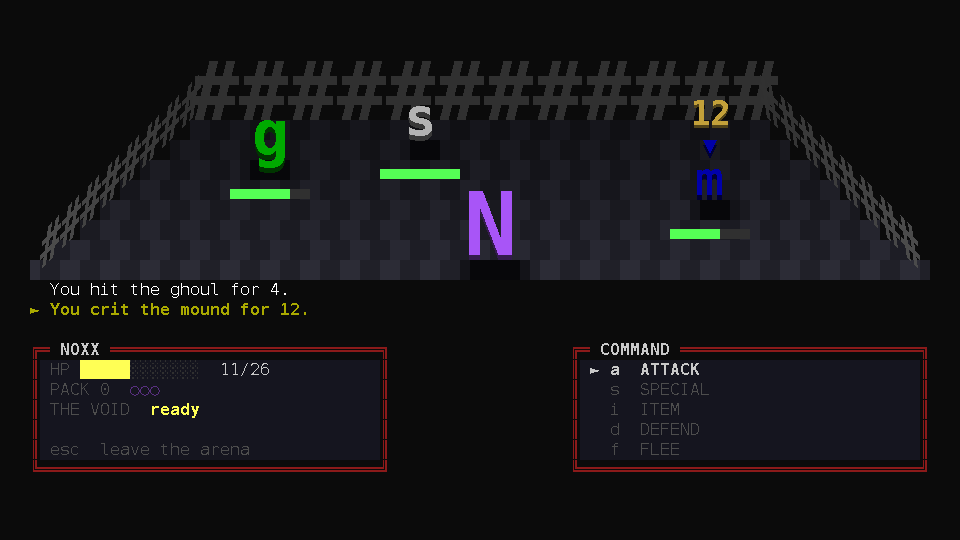
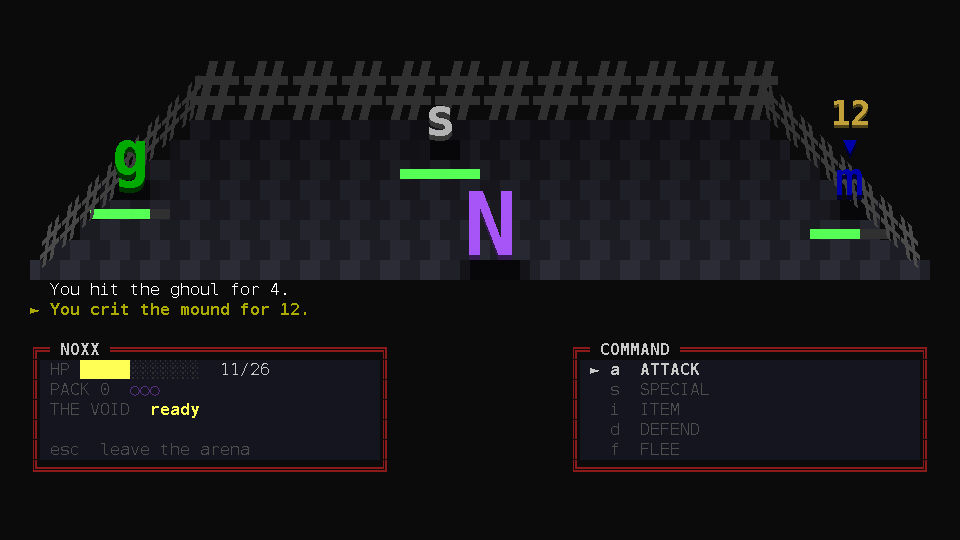
the row is laid out by how many monsters there are
A fight of one was being shoved into the left-hand slot of a row that was not
there: the stage was built for three and placed three, so a single monster stood
off to one side with two empty lanes beside it. The row is laid out by its own
count now -- one in the middle of the room, two on either side of that middle,
three in the shallow arc the stage was drawn for -- which is a table of lanes and
depths rather than three positions, and it lives on the screen because where a
thing stands is the screen's business and not the rules'.

The lone monster also stands a little further back than the first attempt put
it: at the middle lane and the middle depth its health bar landed on the cap of
the hero's letter, and the whole point of the bar is that you can read it.

diff --git a/src/neverdeads_revenge/desktop/screens/battle.py b/src/neverdeads_revenge/desktop/screens/battle.py
@@ -75,6 +75,21 @@ TAPER = 0.18
 #: which is M3's business; three is what a fight of this shape is about.
 STAGE = 3
 
+#: Where a row of monsters stands, by how many there are: the lane across the
+#: room and how far into it, both as fractions of the ground's width and height.
+#:
+#: A fight of *one* should look like a fight of one. The stage was built for
+#: three, and a single monster was being shoved into the left-hand slot of a row
+#: that was not there -- so the row is laid out by its own count: one in the
+#: middle of the room, two on either side of that middle, and three in the
+#: shallow arc the stage was drawn for, with the outer ones a little nearer, the
+#: way a line of anything stands.
+ROWS: dict[int, tuple[tuple[float, float], ...]] = {
+    1: ((0.0, 0.18),),
+    2: ((-0.26, 0.32), (0.26, 0.32)),
+    3: ((-0.40, 0.32), (-0.06, 0.14), (0.40, 0.48)),
+}
+
 #: How big a letter stands, in font pixels. The hero is nearest and largest; the
 #: monsters scale with their depth.
 MONSTER_SIZES = (62, 52, 46)
@@ -512,8 +527,9 @@ class BattleScreen(Screen):
         """Who stands where: the monsters in the far half, the hero in front.
 
         The monsters are the actors themselves, in the order they were met --
-        their glyph, their colour, their size by their depth. Nothing is
-        invented here: a fight against three vipers is three v's on the floor.
+        their glyph, their colour, their depth. Nothing is invented here: a fight
+        against three vipers is three v's on the floor, and a fight against one
+        is one v in the middle of it.
         """
         cell_w = int(field["cell_w"])
         x0, y0 = int(field["cells_x0"]), int(field["cells_y0"])
@@ -522,14 +538,11 @@ class BattleScreen(Screen):
         living = self._targets()
         marked = living[self.target % len(living)] if living else None
         scale = 1.35 if width >= 120 else 1.0
-        places = (
-            (centre - max(4, width // 4), y0 + max(1, height // 3)),
-            (centre - max(1, width // 12), y0 + max(0, height // 6)),
-            (centre + max(4, width // 4), y0 + max(1, height // 2)),
-        )
+        monsters = self.battle.enemies[:STAGE]
+        places = ROWS.get(len(monsters), ROWS[STAGE])
         staged: list[Staged] = []
-        for index, enemy in enumerate(self.battle.enemies[:STAGE]):
-            cell_x, row = places[min(index, len(places) - 1)]
+        for index, enemy in enumerate(monsters):
+            lane, depth = places[min(index, len(places) - 1)]
             size = round(MONSTER_SIZES[min(index, len(MONSTER_SIZES) - 1)] * scale)
             staged.append(
                 Staged(
@@ -537,8 +550,8 @@ class BattleScreen(Screen):
                     glyph=enemy.glyph,
                     colour=enemy.color,
                     size=size,
-                    cx=(cell_x + 1) * cell_w,
-                    row=row,
+                    cx=(centre + round(lane * width) + 1) * cell_w,
+                    row=y0 + max(1, round(depth * height)),
                     cells=self._letter_cells(enemy.glyph, size, cell_w),
                     chosen=enemy is marked,
                 )
